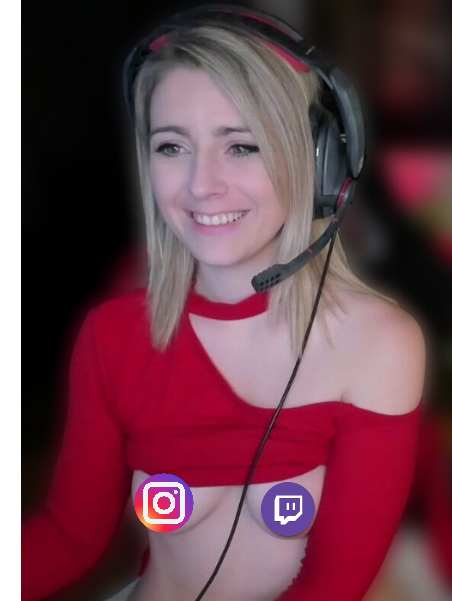
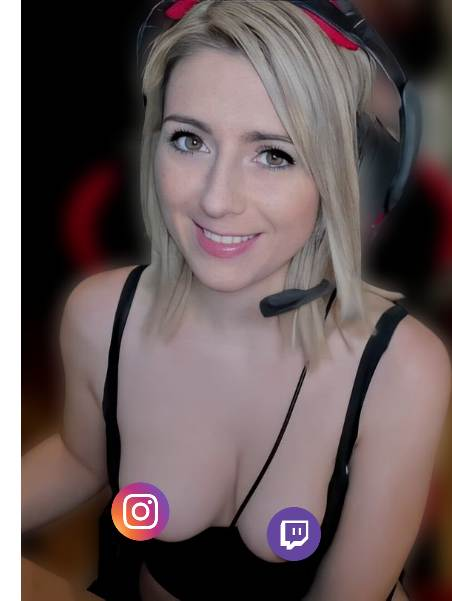
Commit to YOURCURRENTBRANCH

diff --git a/girls/kimilee22/_vti_cnf/index.htm b/girls/kimilee22/_vti_cnf/index.htm
@@ -1,11 +1,11 @@
 vti_encoding:SR|utf8-nl
 vti_author:SR|Office-PC\\Office
 vti_modifiedby:SR|Andreas-PC\\Andreas
-vti_timelastmodified:TR|21 Oct 2022 12:37:40 -0000
+vti_timelastmodified:TR|31 Oct 2022 19:27:32 -0000
 vti_timecreated:TR|03 Nov 2019 10:23:31 -0000
 vti_title:SR|Kimilee22 ❤ Ein deutsches Camgirl mit Unterhaltungswert
 vti_extenderversion:SR|12.0.0.0
-vti_nexttolasttimemodified:TW|21 Oct 2022 12:15:29 -0000
+vti_nexttolasttimemodified:TW|21 Oct 2022 12:37:40 -0000
 vti_backlinkinfo:VX|AAAltes\\ Zeug/lisa/index.htm girls/hotbella/index.htm leitfaden/index.htm AAAltes\\ Zeug/bonnie/jungespaar2822-neu.htm AAAltes\\ Zeug/index.htm jugendschutz/index.htm AAAltes\\ Zeug/bonnie/jungespaar2822ganzalt.htm girls/veronika_rose/index.htm AAAltes\\ Zeug/lisa/videoschnippsel/index.htm AAAltes\\ Zeug/bonnie/jungespaar2822_zu-neu.htm AAAltes\\ Zeug/girls/index.htm girls/yaraliebe/index.htm AAAltes\\ Zeug/bonnie/index.htm AAAltes\\ Zeug/lisa/tagebuch-archiv/001.htm faq/index.htm girls/hot_wet_lilly/index.htm girls/deutsche-camgirls.htm girls/kimilee22/index.htm technik/index.htm girls/vanessa_love/index.htm deutschecamgirls.htm AAAltes\\ Zeug/bonnie/jungespaar2822.htm index.htm girls/sastina/index.htm girls/bonnie/jungespaar2822.htm deutsche-erotik-streamerin/index.htm profit/index.htm liebe/index.htm leitfaden/name/index.htm
 vti_syncofs_webcam-darstellerin.com\:21/webcam-darstellerin.com:TW|14 Nov 2019 10:41:29 -0000
 vti_syncwith_webcam-darstellerin.com\:21/webcam-darstellerin.com:TX|12 Nov 2019 12:13:55 -0000
@@ -22,7 +22,7 @@ vti_syncwith_test.webcam-darstellerin.com\:21:TX|28 Oct 2020 19:42:46 -0000
 vti_syncofs_test.webcam-darstellerin.com\:21:TW|02 Nov 2020 14:25:41 -0000
 vti_syncwith_webcam-darstellerin.com\:21:TX|01 Aug 2021 12:37:55 -0000
 vti_syncofs_webcam-darstellerin.com\:21:TW|01 Aug 2021 12:42:15 -0000
-vti_cacheddtm:TX|21 Oct 2022 12:37:40 -0000
+vti_cacheddtm:TX|31 Oct 2022 19:27:32 -0000
 vti_filesize:IR|18968
 vti_cachedtitle:SR|Kimilee22 ❤ Ein deutsches Camgirl mit Unterhaltungswert
 vti_cachedbodystyle:SR|<body style="background-color: #FFD7D7; margin-left: 0; margin-right: 0; margin-top: 0;">

diff --git a/deutschecamgirls.htm b/deutschecamgirls.htm
@@ -144,11 +144,11 @@ a {
 	Geschäft mit der Nacktheit ist ein einträgliches, und so lassen immer mehr 
 	deutsche Camgirls auf Chaturbate die Hose fallen. Einige Camgirls machen 
 	von der deutschen Sprache regen Gebrauch, so dass auch die Freunde des Dirty 
-	Talks angemessen unterhalten werden. Leider 
-	ist es nicht ganz einfach, die echten 🇩🇪 deutschen Camgirls unter den falschen 
+	Talks angemessen unterhalten werden. Leider ist es nicht einfach, die echten 
+	☎ deutschen Camgirls unter den falschen 
 	Fuffzigern herauszupicken. Der einträgliche Hashtag #german ist keine Hilfe, denn den 
 	machen sich auch die liebreizenden Camgirls anderer Nationen zunutze.<br>In unserer aktuellen 
-	und stetig erweiterten Übersicht ☎ präsentieren wir euch alle uns bekannten 
+	und stetig erweiterten Übersicht präsentieren wir euch alle uns bekannten 
 	Camgirls, welche der deutschen Sprache nachweislich mächtig sind. Interessiert ihr euch für ein 
 	deutsches Camgirl welches gerade nicht streamt, so könnt 
 	ihr euch benachrichtigen lassen, wenn es zu streamen beginnt. Dazu müsst ihr 
@@ -157,7 +157,7 @@ a {
 	Browserbenachrichtigung aktiviert werden, wenn man seine Email-Adresse nicht 
 	preisgeben möchte.<br>Können die Camgirls auf Chaturbate grundsätzlich 
 	kostenlos bewundert werden, spricht nichts dagegen einzelne zu unterstützen! 
-	Dies geht auch ohne Anmeldung, indem ihr z.B. eurer Lieblings-Darstellerin 
+	Dies geht auch ohne Anmeldung, indem ihr z.B. eurer Lieblings-Streamerin 
 	einen Amazon-Gutschein per Email sendet.</p>
 	<hr class="auto-style74">
 	<p class="auto-style26">

diff --git a/girls/kimilee22/index.htm b/girls/kimilee22/index.htm
@@ -143,8 +143,8 @@ a {
 	<img alt="Lisamaus als Kimilee22 ❤ live auf Chaturbate" height="39" src="lisamaus.gif" width="568"></p>
 	<p class="auto-style26">
 	<map id="ImgMap2" name="ImgMap2">
-		<area alt="Kimilee22 Instagram" coords="90, 288, 28" href="#Kimilee22 auf Twitter, TikTok und Instagram" shape="circle" target="_self">
-		<area alt="Lisamaus_tv alias Kimilee22 Twitch" coords="165, 292, 27" href="#Kimilee22 Twitch" shape="circle">
+		<area alt="Kimilee22 Instagram" coords="81, 296, 28" href="#Kimilee22 auf Twitter, TikTok und Instagram" shape="circle" target="_self">
+		<area alt="Lisamaus_tv alias Kimilee22 Twitch" coords="170, 307, 27" href="#Kimilee22 Twitch" shape="circle">
 	</map>
 	<img alt="Das deutsche Camgirl Kimilee22 ❤ hat einen großen Unterhaltungswert." class="auto-style71" height="348" src="kimilee22.jpg" title="Das deutsche Camgirl Kimilee22" style="float: right" usemap="#ImgMap2" width="259">Gute 
 	Mädchen kommen in den Himmel, Camgirl <strong>Kimilee22</strong> überall hin. Lisas 
